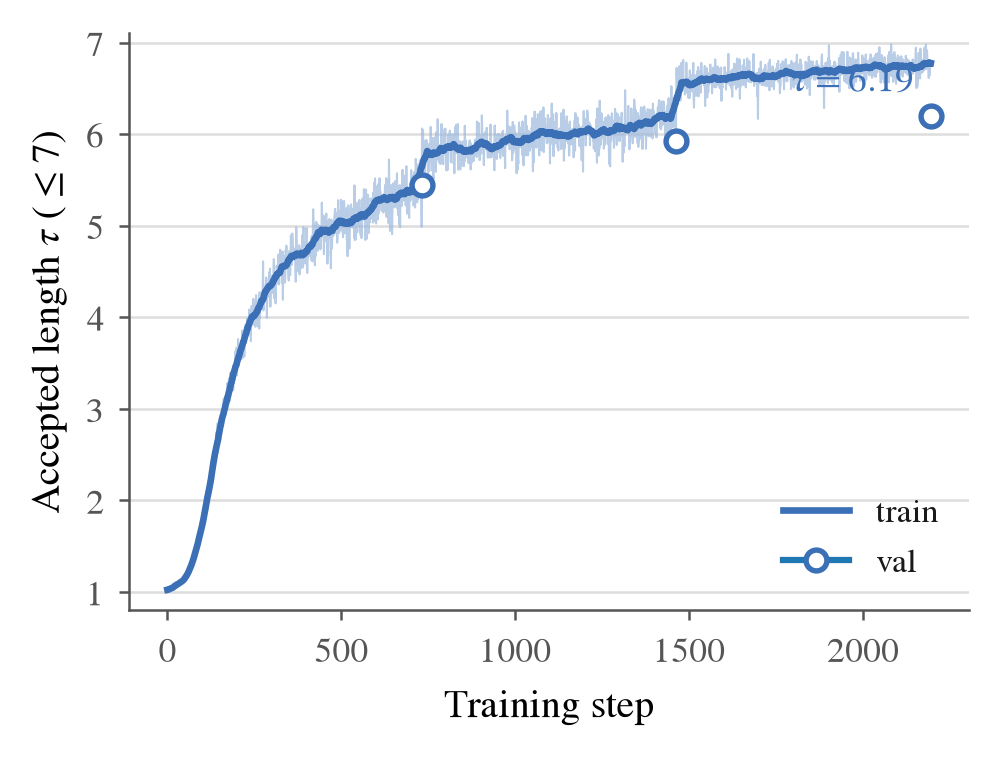
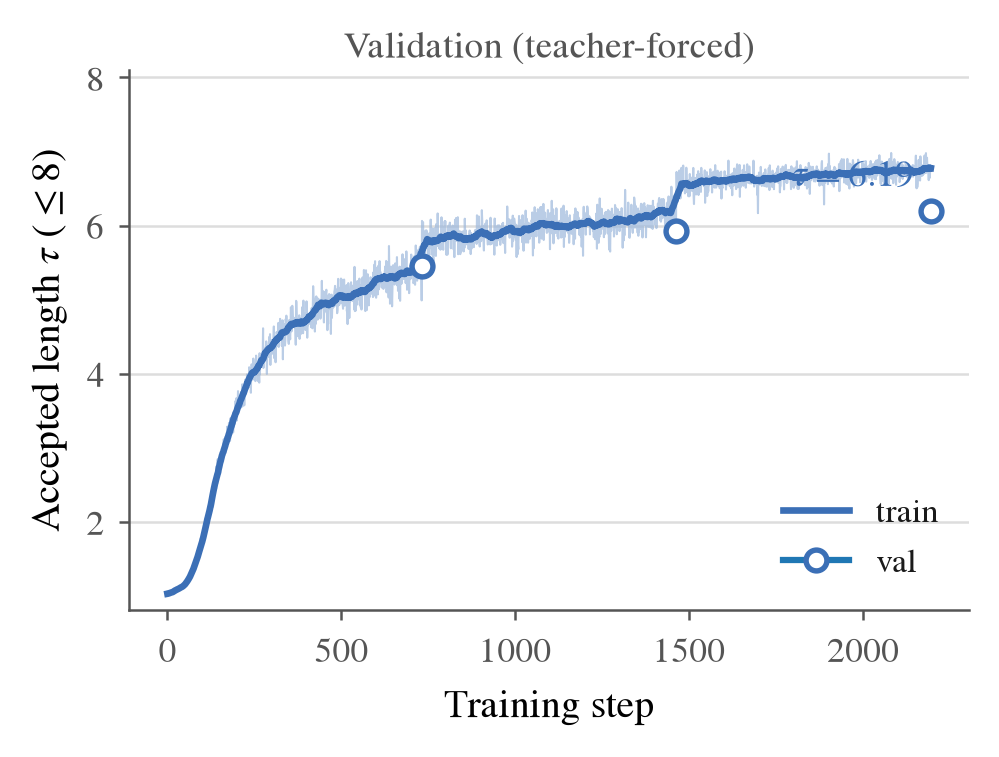
Label audio head figures as validation (teacher-forced); note serving MRoPE gap

Changed region(s): [[0.031, 0.0304, 0.962, 0.79]]

diff --git a/scripts/plot_dspark_audio_profile.py b/scripts/plot_dspark_audio_profile.py
@@ -82,8 +82,9 @@ def fig_convergence(curve, outdir):
     ax.annotate(rf"$\tau={val[-1]:.2f}$", (len(al) - 1, val[-1]),
                 textcoords="offset points", xytext=(-4, 6), ha="right",
                 color=C, fontsize=9, fontweight="bold")
-    ax.set_ylim(0.8, 7.1); ax.set_xlabel("Training step")
-    ax.set_ylabel(r"Accepted length $\tau$ ($\leq 7$)")
+    ax.set_ylim(0.8, 8.1); ax.set_xlabel("Training step")
+    ax.set_ylabel(r"Accepted length $\tau$ ($\leq 8$)")
+    ax.set_title("Validation (teacher-forced)", fontsize=9, color=MUTED, pad=3)
     ax.legend(frameon=False, fontsize=8, loc="lower right", labelcolor=INK)
     fig.tight_layout()
     _save(fig, outdir, "dspark_audio_convergence")
@@ -101,7 +102,8 @@ def fig_perposition(outdir):
     ax.set_ylim(0.82, 1.0); ax.set_xticks(range(BLOCK))
     ax.yaxis.set_major_formatter(PercentFormatter(xmax=1, decimals=0))
     ax.set_xlabel("Draft position in block")
-    ax.set_ylabel("Top-1 acceptance")
+    ax.set_ylabel("Top-1 agreement")
+    ax.set_title("Validation (teacher-forced)", fontsize=9, color=MUTED, pad=3)
     fig.tight_layout()
     _save(fig, outdir, "dspark_audio_perposition")
 

diff --git a/scripts/dspark_audio_head_results.md b/scripts/dspark_audio_head_results.md
@@ -6,6 +6,16 @@ the **audio (ASR)** input modality, trained in the
 servable in vLLM, no conversion). This is a self-contained profile of the run — dataset,
 pipeline, and training metrics.
 
+> **⚠️ These are training / validation metrics (teacher-forced), not deployed speedup.**
+> Measured end-to-end in vLLM speculative serving, this head currently accepts
+> ~1.1 tokens/step (accept_rate ~1.4%, no speedup). The gap is a **vLLM bug, not the
+> training**: the DFlash/DSpark spec-decode proposer does not thread MRoPE positions, so
+> the draft (trained with Qwen3-Omni's 3D MRoPE) is fed 1D positions at serve time and
+> its rotary embedding is wrong. This affects *all* MRoPE targets (Qwen3-Omni, Qwen-VL)
+> and both the image and audio heads identically; text-only targets (e.g. GLM) are
+> unaffected. Report these numbers as validation only until MRoPE support lands in the
+> proposer. (Consistent with RedHat's GLM DSpark card noting "inference support is landing".)
+
 ![pipeline](dspark_audio_pipeline.png)
 
 ![convergence](dspark_audio_convergence.png)
@@ -57,7 +67,7 @@ is ~90% ASR.
 **Training convergence** (convergence figure) — mean accepted length rises to ~6.8 (train) over
 2196 steps; per-epoch validation:
 
-| Epoch | Accepted length (/7) | Accept rate | Val loss | Full-block acc |
+| Epoch | Accepted length (/8) | Accept rate | Val loss | Full-block acc |
 |---|---|---|---|---|
 | 1 | 5.45 | 0.838 | 0.254 | 0.864 |
 | 2 | 5.93 | 0.885 | 0.194 | 0.905 |
@@ -68,7 +78,7 @@ the 7-token block: 95.3% → 87.9%, barely decays. Confidence head pred-mean 0.9
 (CE 0.181, TV 0.043).
 
 **Key speculative-decoding metrics**: the draft proposes a **block of 7**
-tokens per verifier step; **accept_len = 6.19/7** are accepted on average
+tokens per verifier step; **accept_len = 6.19/8** are accepted on average
 (**accept_rate 90.7%** of drafted tokens; **full-block 92.2%** of blocks accept all 7).
 
 ## Notes